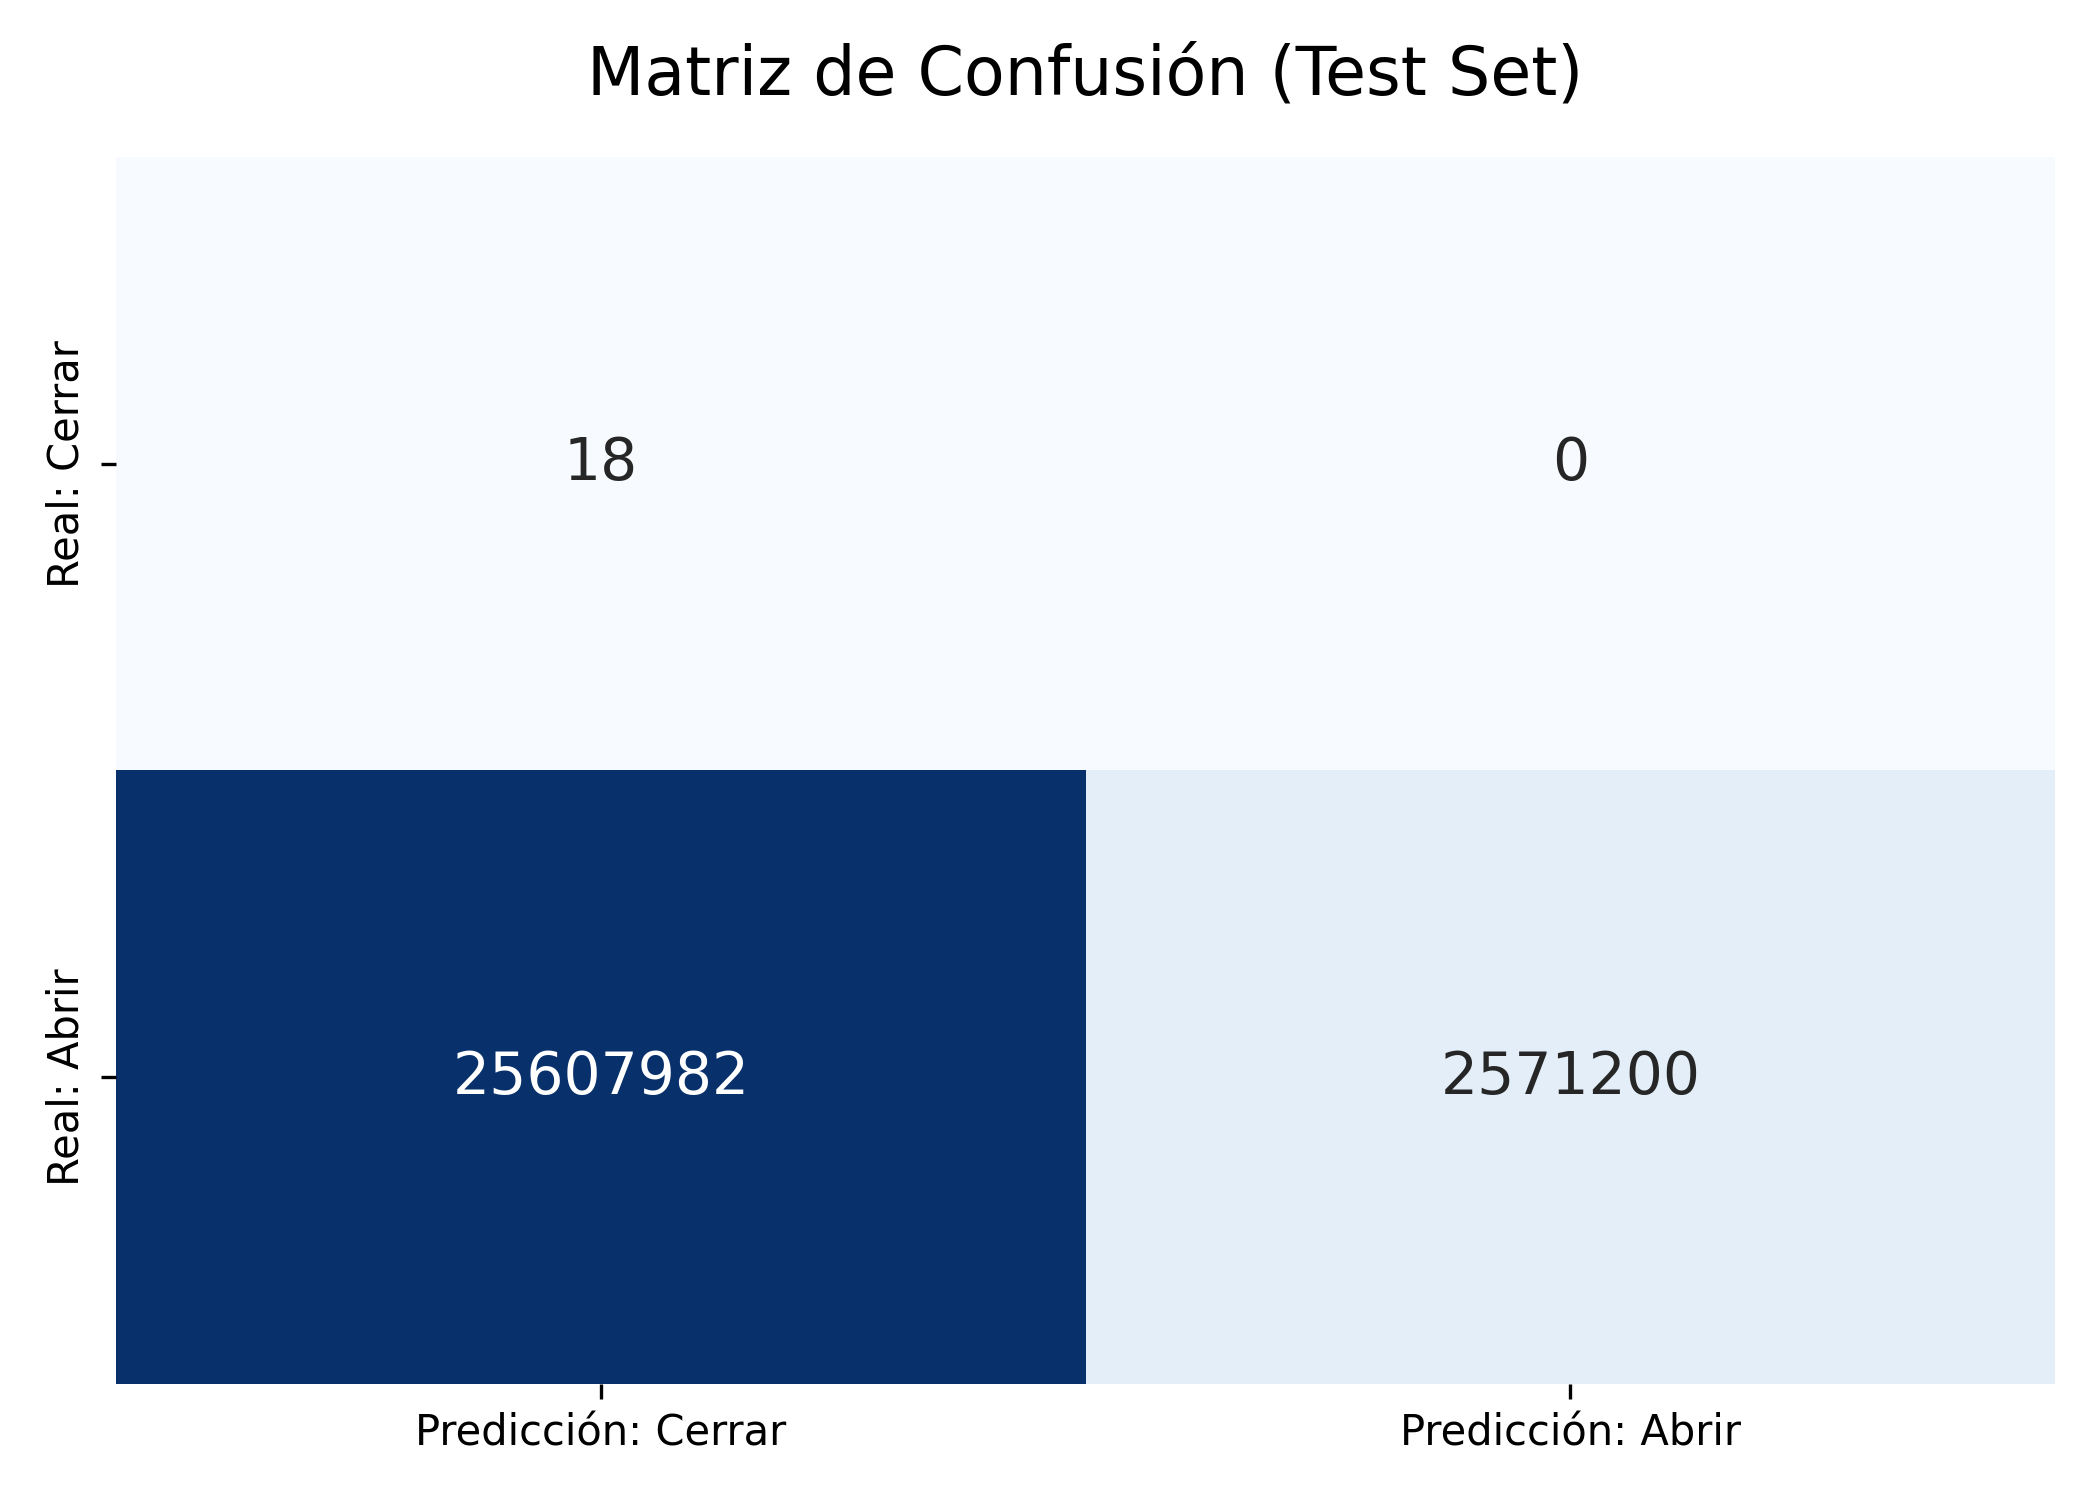
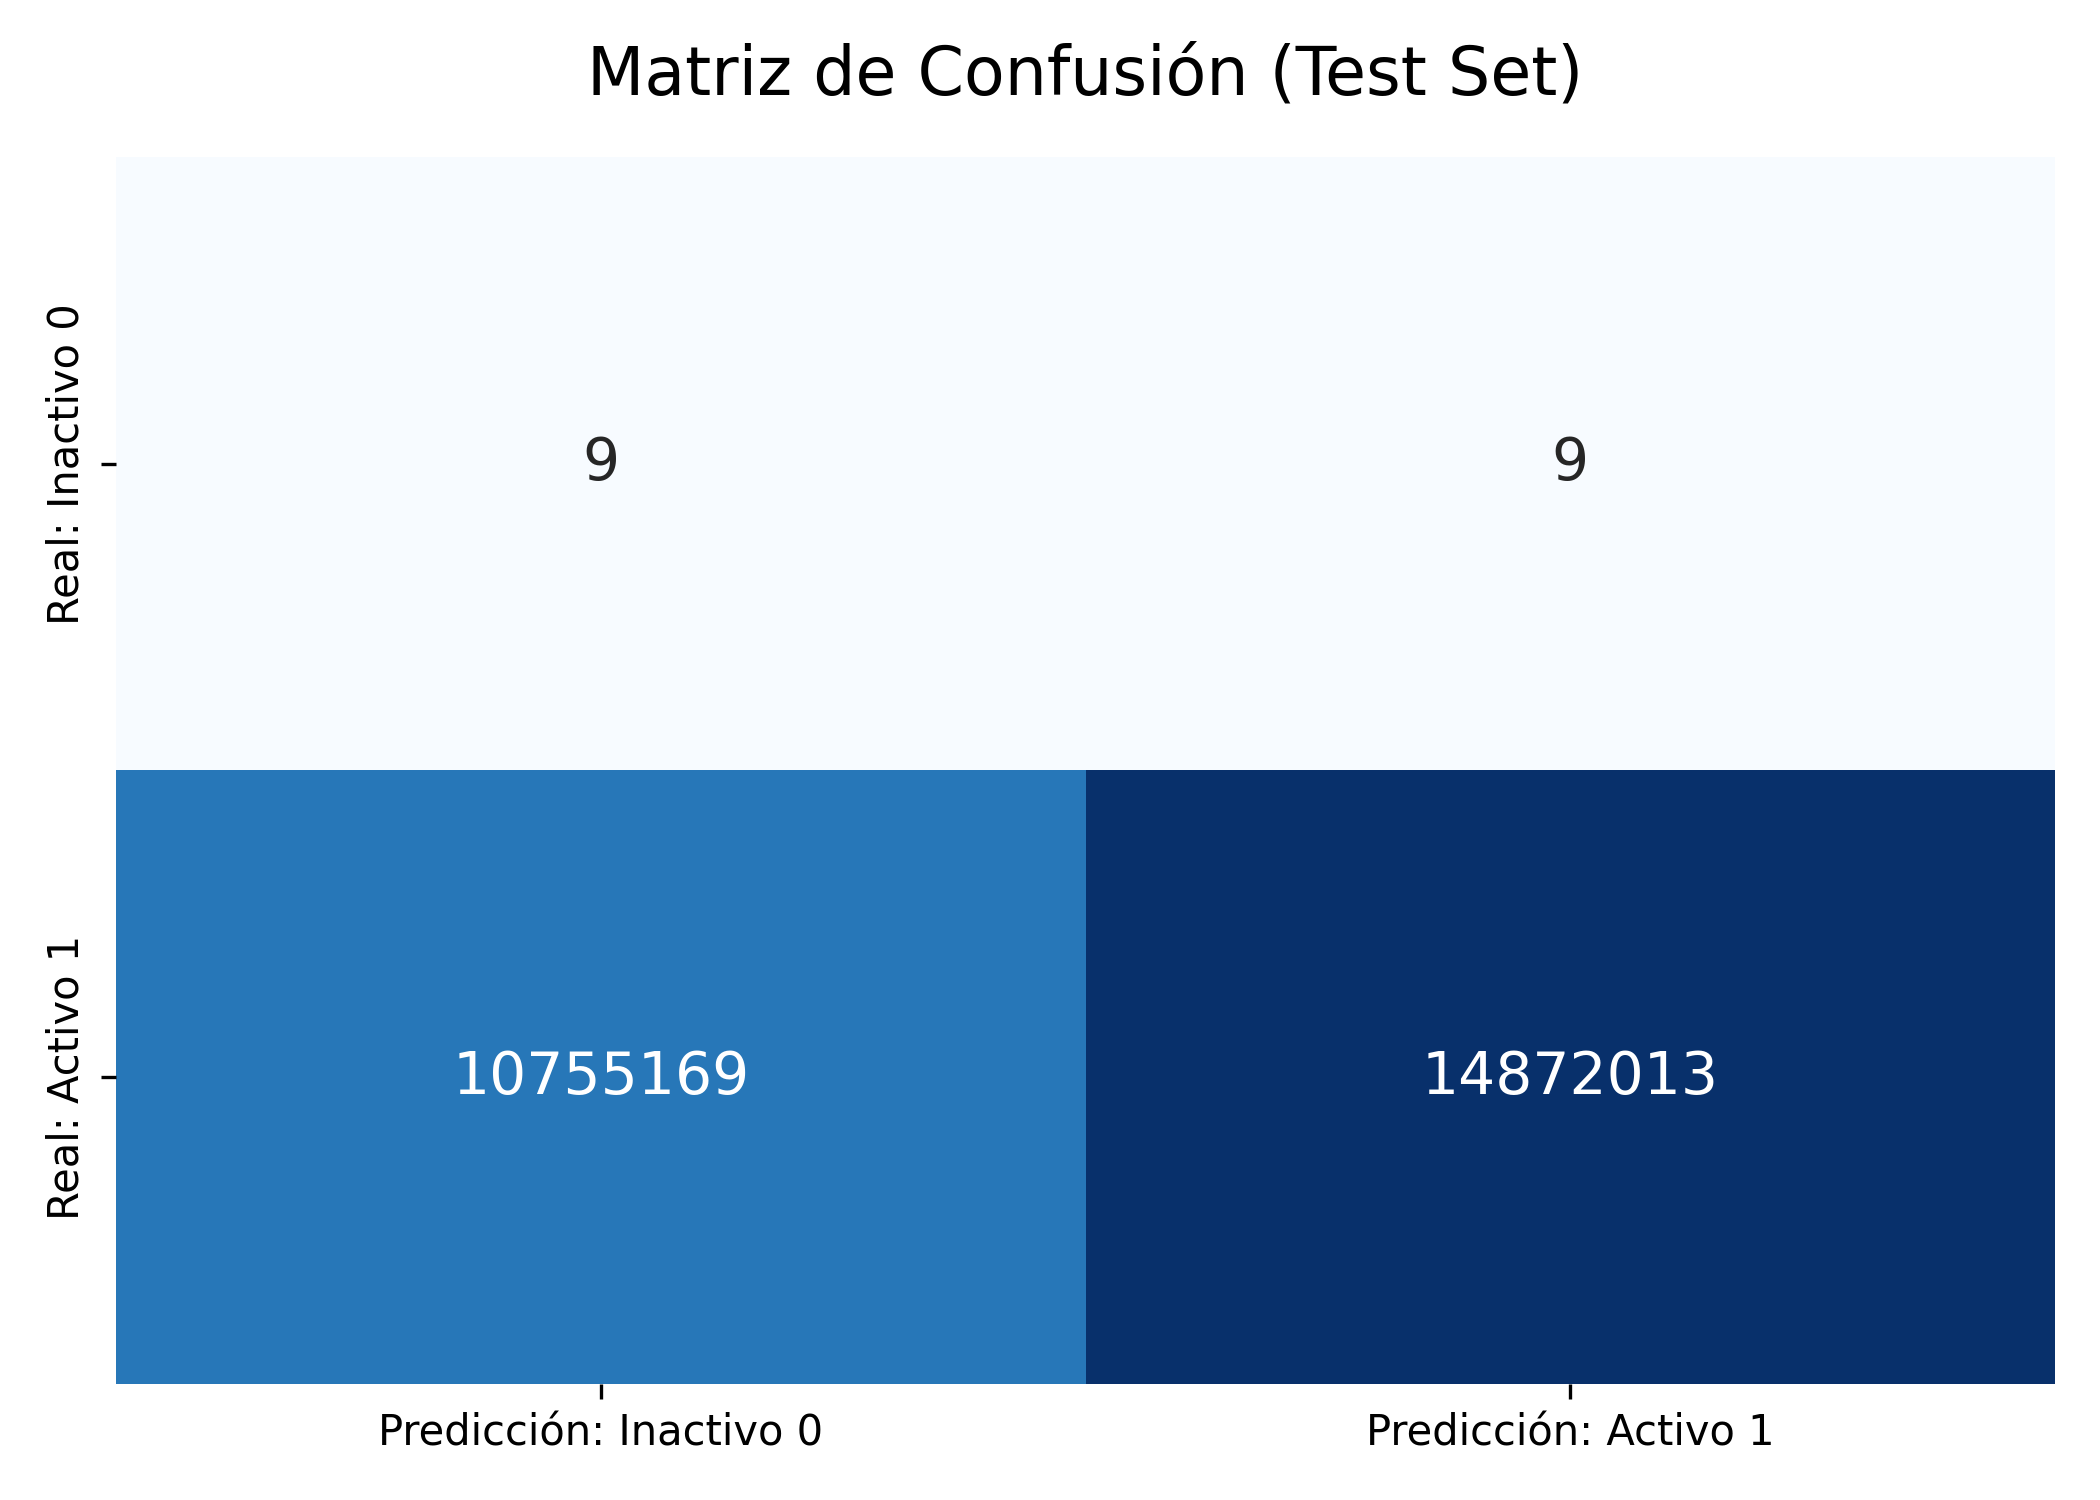
update gnn training and evaluating files

diff --git a/src/gnn/evaluate_model.py b/src/gnn/evaluate_model.py
@@ -94,6 +94,7 @@ def collect_predictions(model, loader, device):
 def main():
     parser = argparse.ArgumentParser()
     parser.add_argument('--model_path', type=str, required=True)
+    parser.add_argument('--experiment_name', type=str, default="eval", help="Nombre del exp (ej. serial, parallel)")
     parser.add_argument('--hidden_dim', type=int, default=32)
     parser.add_argument('--easy_split', type=int, nargs=3, default=[0,0,0])
     parser.add_argument('--medium_split', type=int, nargs=3, default=[0,0,0])
